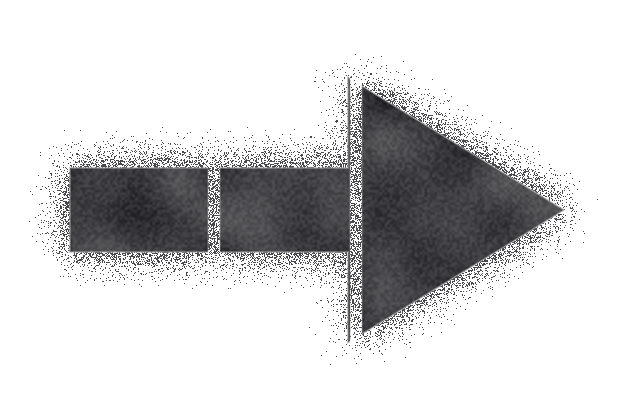
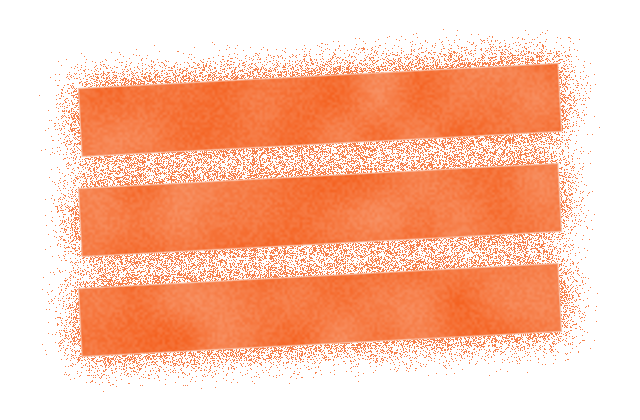
Demo: lead "Make one" with the Figma plugin; calmer hero landing
The Vitral now lands on colour, not black. Section 02 opens with the Figma
plugin in three steps; the packer stays for other tools, with plainer
labels and a sentence on what the optional third export is for. The dark
arrow is dropped: it looked almost the same as its PNG.

Claude-Session: https://claude.ai/code/session_01T7KWHcQF8fVSVfT6P6bcNV

diff --git a/web/index.html b/web/index.html
@@ -249,7 +249,6 @@ header.hero {
 #samples button[data-id="neon"] { --sw: #141416 url(samples/neon.vitral.png) center / contain no-repeat; }
 #samples button[data-id="postmark"] { --sw: #fff url(samples/postmark.vitral.png) center / contain no-repeat; }
 #samples button[data-id="stencil"] { --sw: #fff url(samples/stencil.vitral.png) center / contain no-repeat; }
-#samples button[data-id="stencil-bars"] { --sw: #fff url(samples/stencil-bars.vitral.png) center / contain no-repeat; }
 #samples button[data-id="own"] { --sw: repeating-conic-gradient(var(--check-a) 0 25%, var(--check-b) 0 50%) 0 0 / 8px 8px; }
 #backdrops button[data-id="pattern"] { --sw: url(samples/grid.svg) center / 100% 100%; }
 #backdrops button[data-id="text"] { --sw: repeating-linear-gradient(#f4f1e8 0 3px, #8f8a7e 3px 4px); }
@@ -315,7 +314,6 @@ figure { margin: 0; display: grid; gap: 0.6rem; min-width: 0; }
 .maker { display: grid; gap: 1.25rem; grid-template-columns: repeat(auto-fit, minmax(min(100%, 9.5rem), 1fr)); align-items: start; }
 .slot { display: grid; grid-template-columns: minmax(0, 1fr); gap: 0.6rem; min-width: 0; }
 .slot label { font-weight: 600; font-size: var(--step--1); }
-.slot label .step { font: 500 0.72rem/1 var(--mono); color: var(--accent); margin-right: 0.4rem; }
 .slot input { font: inherit; font-size: 0.75rem; max-width: 100%; color: var(--muted); }
 .slot input::file-selector-button {
   font: 600 0.75rem/1 var(--body); margin-right: 0.6rem; padding: 0.5rem 0.75rem; cursor: pointer;
@@ -323,6 +321,14 @@ figure { margin: 0; display: grid; gap: 0.6rem; min-width: 0; }
 }
 .slot img { width: 100%; height: auto; display: block; border: 1px solid var(--line); }
 .slot .optional { font-weight: 400; color: var(--muted); }
+.steps { list-style: none; margin: 0; padding: 0; display: grid; gap: 1px; background: var(--line); border: 1px solid var(--line);
+  grid-template-columns: repeat(auto-fit, minmax(min(100%, 12rem), 1fr)); }
+.steps li { display: grid; gap: 0.35rem; align-content: start; padding: 1rem 1.1rem 1.2rem; background: var(--bg); }
+.steps .step { font: 500 0.72rem/1 var(--mono); color: var(--accent); }
+.steps strong { font: 500 1.05rem/1.25 var(--display); letter-spacing: -0.01em; }
+.steps li > span:last-child { font-size: var(--step--1); color: var(--muted); }
+.ctas .hint { align-self: center; }
+h3.sub { font: 500 1.25rem/1.2 var(--display); letter-spacing: -0.015em; margin: 1rem 0 0; padding-top: 1.5rem; border-top: 1px solid var(--line); }
 #transparent-preview { background: repeating-conic-gradient(var(--check-a) 0 25%, var(--check-b) 0 50%) 0 0 / 14px 14px; }
 .result .stage { aspect-ratio: auto; display: grid; place-items: center; padding: 8%; border: 1.5px solid var(--strong-line); }
 .result .stage > div { width: 80%; }
@@ -485,25 +491,38 @@ footer a { color: var(--fg); }
   <section class="section split" id="make" aria-labelledby="make-title">
     <div class="head">
       <p class="eyebrow"><span class="num">02</span>Make one</p>
-      <h2 id="make-title">Export twice, from any tool</h2>
+      <h2 id="make-title">Export it from Figma</h2>
     </div>
     <div class="body">
       <div class="prose">
-        <p>You make a Vitral in your own design tool. Until the Figma plugin does it in one click, this page packs your exports into one file: export the artwork over black, over white and once with no background, and drop the three files here. Blend modes act on the background, so the black and white exports carry the blending; the one with no background is what software without Vitral will show. The example below is loaded with the exports of the image at the top of the page.</p>
+        <p>The Vitral plugin for Figma exports a layer as a <code>.vitral.png</code> in one click, blend modes included. It also places Vitral files back in Figma as layers that keep blending.</p>
+      </div>
+      <ol class="steps">
+        <li><span class="step">1</span><strong>Select a layer</strong><span>A frame, a group or a shape, with blend modes inside.</span></li>
+        <li><span class="step">2</span><strong>Press Export .vitral.png</strong><span>One file, still a PNG, with the blends kept.</span></li>
+        <li><span class="step">3</span><strong>Place it anywhere</strong><span>On a website with one script tag, or back in Figma.</span></li>
+      </ol>
+      <div class="ctas">
+        <a class="button primary" href="https://github.com/hugovalepereira/vitral-image-format/tree/main/figma">Get the Figma plugin</a>
+        <span class="hint">A first version, installed from the repository. Not on Figma Community yet.</span>
+      </div>
+      <h3 class="sub" id="other-tools">From another tool</h3>
+      <div class="prose">
+        <p>Any tool that exports PNG can make one. Export the artwork over a black background and over a white one, and drop both files here: how each pixel changes between the two is what records the blending. A third export with no background is optional. It sets the picture that software without Vitral shows; leave it out and Vitral works that picture out from the other two. The example below is loaded with the exports of the image at the top of the page.</p>
       </div>
       <div class="maker">
         <div class="slot">
-          <label for="black-input"><span class="step">1</span>Artwork over black</label>
+          <label for="black-input">Over black</label>
           <input type="file" id="black-input" accept="image/png">
           <img id="black-preview" alt="Artwork exported over a black background">
         </div>
         <div class="slot">
-          <label for="white-input"><span class="step">2</span>Artwork over white</label>
+          <label for="white-input">Over white</label>
           <input type="file" id="white-input" accept="image/png">
           <img id="white-preview" alt="Artwork exported over a white background">
         </div>
         <div class="slot">
-          <label for="transparent-input"><span class="step">3</span>Artwork over transparency <span class="optional">(optional)</span></label>
+          <label for="transparent-input">No background <span class="optional">(optional)</span></label>
           <input type="file" id="transparent-input" accept="image/png">
           <img id="transparent-preview" alt="Artwork exported over a transparent background">
         </div>
@@ -532,7 +551,7 @@ footer a { color: var(--fg); }
 &lt;script type="module" src="vitral.js"&gt;&lt;/script&gt;</code></pre>
       </div>
       <div class="prose">
-        <p>With the script, every <code>&lt;img&gt;</code> whose file ends in <code>.vitral.png</code> blends with what is behind it on the page. It works on websites with the script today, and in Figma with the plugin next. Everywhere else it shows the PNG you would export today, never worse.</p>
+        <p>With the script, every <code>&lt;img&gt;</code> whose file ends in <code>.vitral.png</code> blends with what is behind it on the page. It works on websites with the script and in Figma with the plugin. Everywhere else it shows the PNG you would export today, never worse.</p>
       </div>
     </div>
   </section>
@@ -634,7 +653,8 @@ function step(t) {
 }
 
 const still = matchMedia('(prefers-reduced-motion: reduce)').matches;
-let t = 0;
+// Start on a beat that puts colour, not black, under the Vitral as it lands.
+let t = 3;
 let timer = null;
 for (const cell of cells) dress(cell, t);
 const play = () => { timer ??= setInterval(() => step(++t), 1400); };
@@ -680,9 +700,7 @@ const SAMPLES = [
     note: 'A strip of 35 mm colour negative: frames that invert under an orange base in multiply, with the numbers along its edges. As a plain PNG the frames are flat orange; with Vitral they show the backdrop as a negative.' },
   { id: 'halftone', label: 'Halftone', w: 300, h: 300,
     note: 'A disc of halftone dots in multiply. As a plain PNG it is a pink pattern on top; with Vitral it prints onto the backdrop.' },
-  { id: 'stencil', label: 'Arrow', w: 320, h: 210,
-    note: 'An arrow sprayed through a stencil in dark ink, in multiply. As a plain PNG it is a black sticker; with Vitral the paint soaks into the backdrop.' },
-  { id: 'stencil-bars', label: 'Bars', w: 320, h: 210,
+  { id: 'stencil', label: 'Stencil', w: 320, h: 210,
     note: 'Three bars sprayed in orange through a stencil, in multiply. As a plain PNG they are flat orange shapes; with Vitral the backdrop shows through the paint.' },
   { id: 'neon', label: 'Neon', w: 400, h: 230,
     note: 'A neon circle and triangle in screen: white-hot tubes and their glow. As a plain PNG the glow is a coloured haze; with Vitral it lights up the backdrop. Try it in dark mode.' },

diff --git a/tools/demo_samples.py b/tools/demo_samples.py
@@ -338,11 +338,9 @@ def halftone():
     return a
 
 
-def spray(a, d, colour, seed, bridges=None):
+def spray(a, d, colour, seed):
     """Paint sprayed through a stencil cut to the shape d, with overspray."""
     body = smooth(d, 3)
-    if bridges is not None:
-        body = body * smooth(bridges, 2)
     even = 0.78 + 0.22 * blotches(a.w, a.h, 40, seed)
     grain = 0.88 + 0.12 * blotches(a.w, a.h, 2.5, seed + 1)
     blur = Image.fromarray((body * 255).astype(np.uint8)).filter(ImageFilter.GaussianBlur(16))
@@ -352,17 +350,6 @@ def spray(a, d, colour, seed, bridges=None):
 
 
 def stencil():
-    """An arrow sprayed through a stencil in dark ink, in multiply."""
-    a = Art(640, 420)
-    shaft = rect(a.x, a.y, 70, 168, 352, 252)
-    u, v = a.x - 352, np.abs(a.y - 210)
-    head = np.minimum(u + 4, (130 * (1 - u / 212) - v) * 0.85)
-    bridges = np.minimum(np.abs(a.x - 214), np.abs(a.x - 356)) - 6
-    spray(a, np.maximum(shaft, head), (26, 26, 30), 4, bridges)
-    return a
-
-
-def stencil_bars():
     """Three bars sprayed in orange through a stencil, a little crooked."""
     a = Art(640, 420)
     d = np.maximum.reduce([box(a.x, a.y, 320, cy, 240, 34, -3) for cy in (110, 210, 310)])
@@ -446,7 +433,6 @@ SAMPLES = {
     "film": film,
     "halftone": halftone,
     "stencil": stencil,
-    "stencil-bars": stencil_bars,
     "neon": neon,
     "blinds": blinds,
     "tape": tape,
